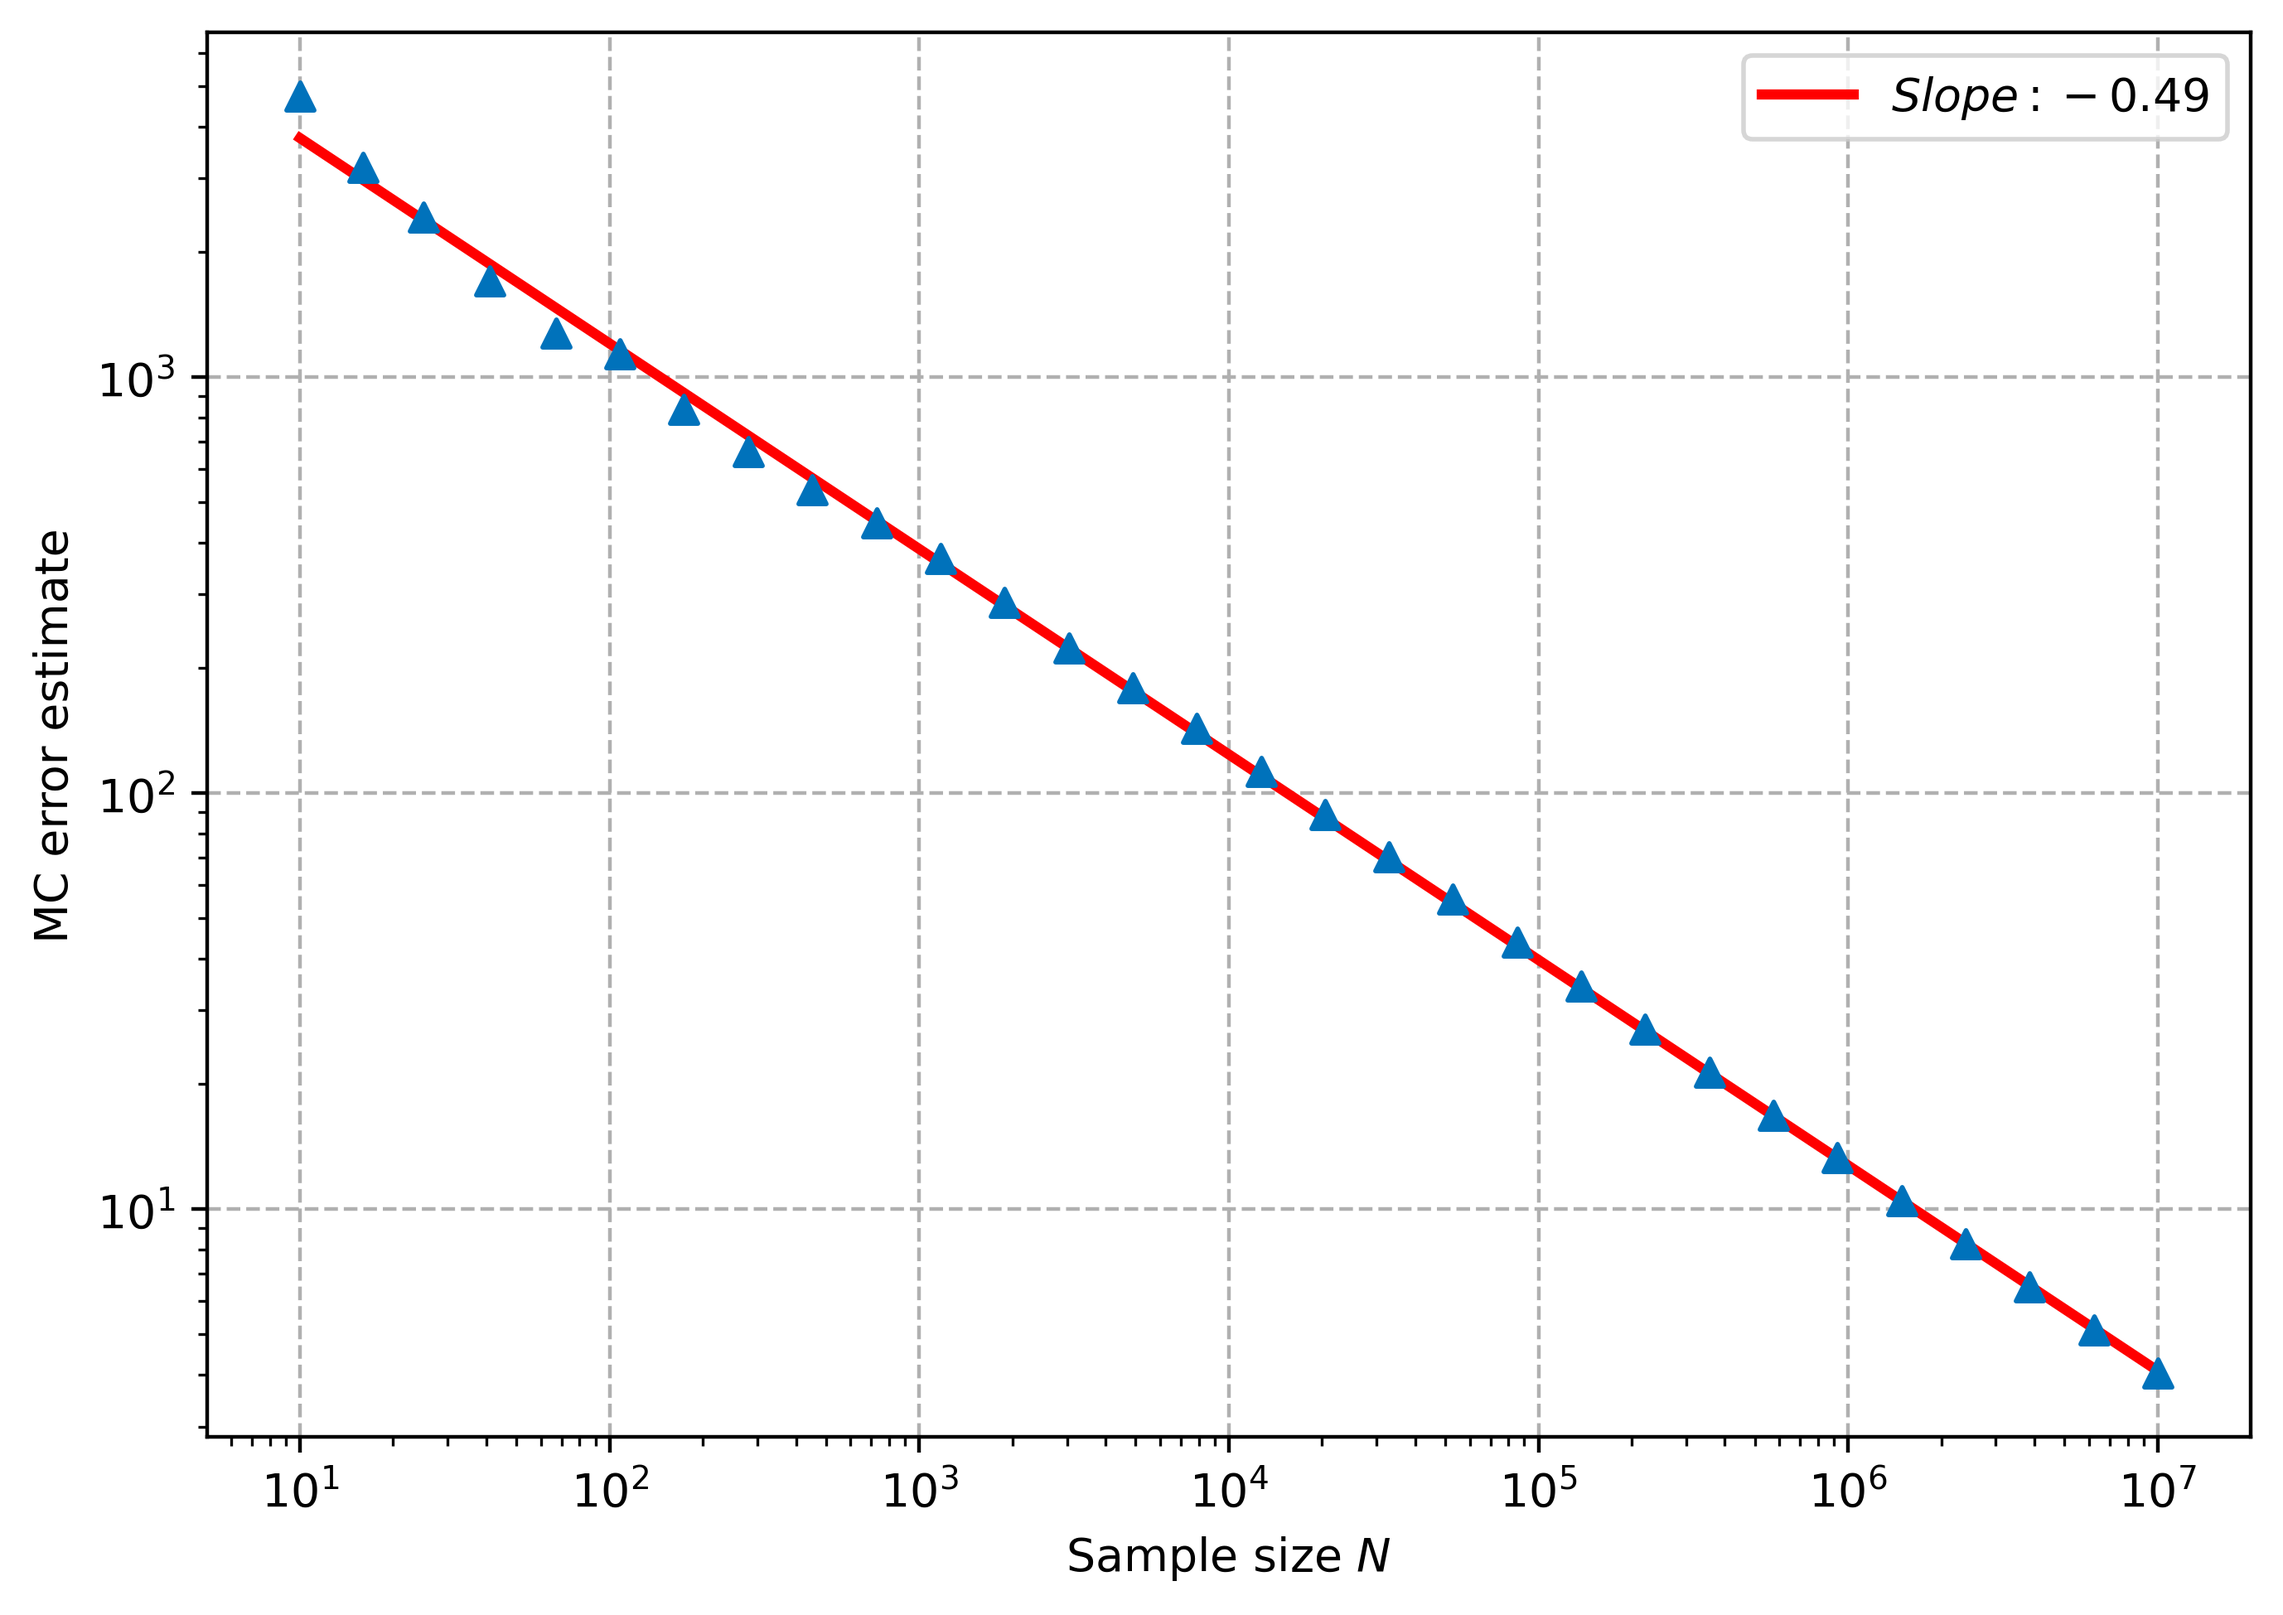
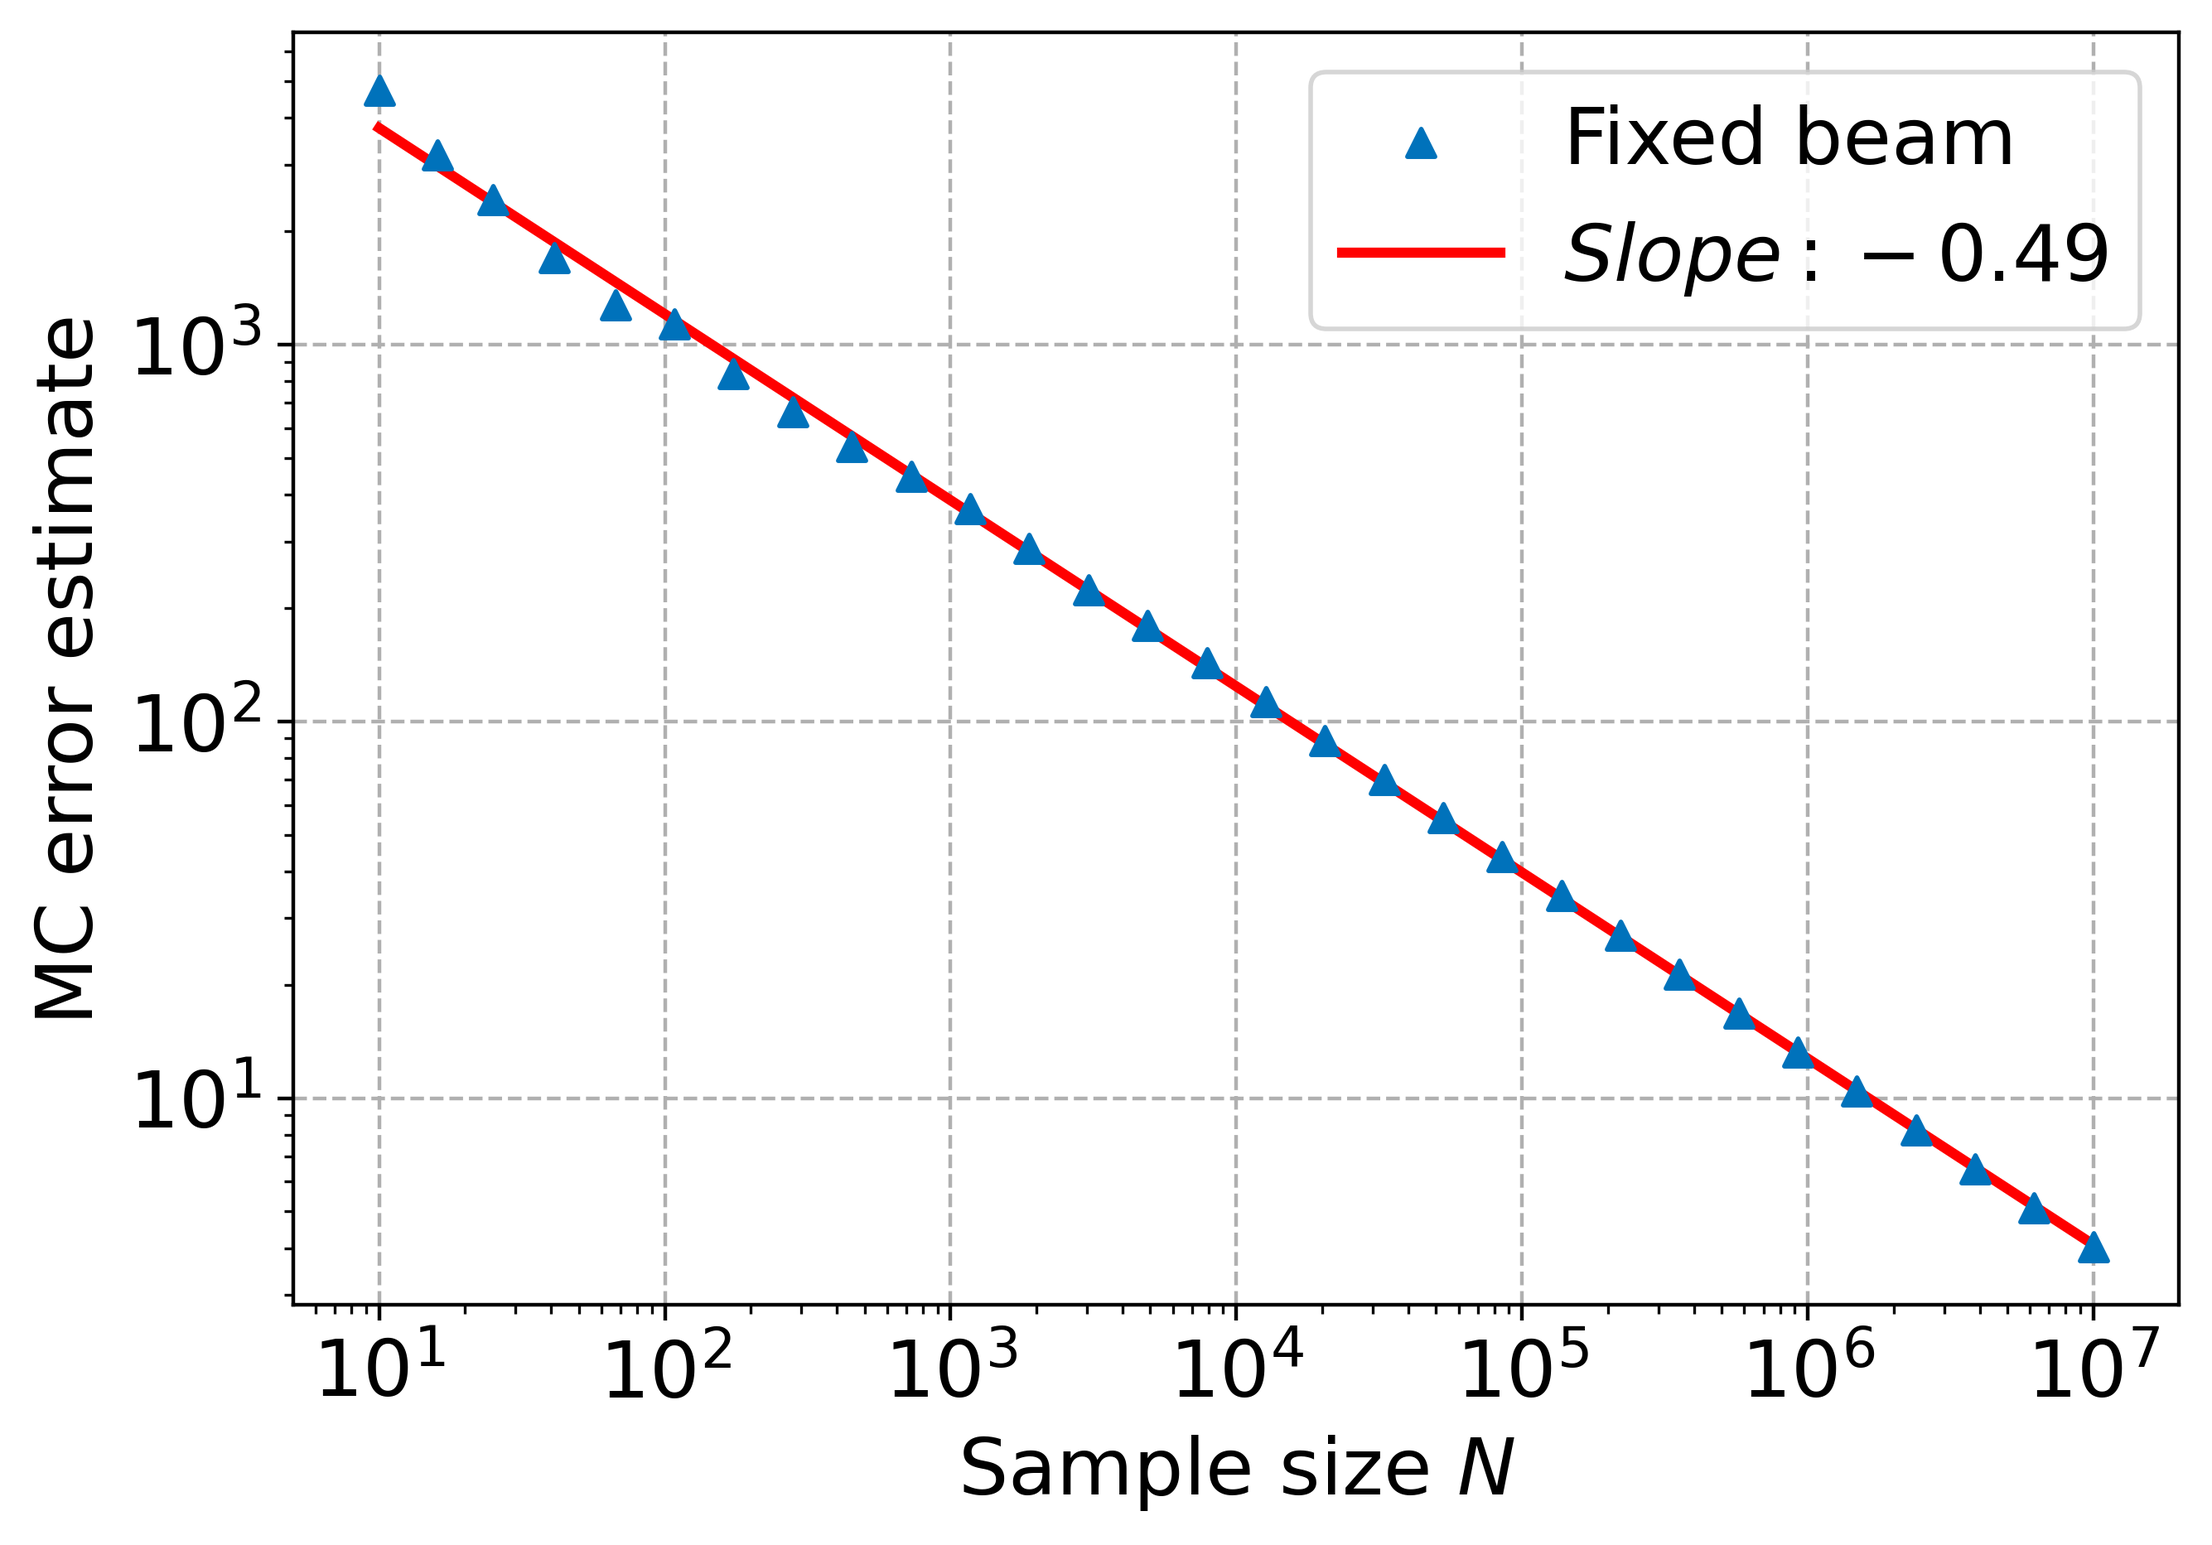
Finished exercise 1 part b and all mc errors plot.

diff --git a/exercise1/all_mc_errors.py b/exercise1/all_mc_errors.py
@@ -1,0 +1,87 @@
+"""
+Create a single plot of the Monte Carlo error estimate vs. sample size for three different scenarios:
+    1. fixed beam energy,
+    2. flat beam spectrum with uniform sampling for s, and
+    3. flat beam spectrum with Breit-Wigner importance sampling for s.
+
+The plot includes two lines representing the decrease of the MC error estimate with 1/sqrt(N).
+"""
+import matplotlib.pyplot as plt
+import numpy as np
+import pandas as pd
+
+from simulator import MonteCarloIntegrator, getDistros, plotMonteCarloErrors, setFontSizes
+
+
+def getMCErrors(sample_sizes: np.ndarray | list[int], integrators: list[MonteCarloIntegrator]):
+    """
+    Compute the Monte Carlo error estimate on the total cross-section, for different sample sizes N.
+
+    :param sample_sizes: List or numpy array of integers for the sample sizes.
+    :param integrators: List of Monte Carlo integrators.
+    :return: Ordered sample sizes and a list with the corresponding Monte Carlo errors for each integrator.
+    """
+
+    N_sizes = sorted(sample_sizes)  # Make sure it's in ascending order.
+
+    mc_errors = [np.zeros(len(N_sizes)) for _ in range(len(integrators))]
+
+    for (k, N) in enumerate(N_sizes):
+        for (idx, integrator) in enumerate(integrators):
+            integrator: MonteCarloIntegrator
+            integrator.sample_diff_cross_section(N)
+            mc_error = integrator.integrate_cross_section()[1]
+            mc_errors[idx][k] = mc_error
+
+    return N_sizes, mc_errors
+
+
+def main() -> None:
+    cases = ["Fixed", "Uniform", "Breit-Wigner"]
+
+    if load_data:
+        df = pd.read_csv(data_path)
+        N_sizes = list(df["sample_sizes"])
+        mc_errors = [list(df[key]) for key in cases]
+    else:
+        distros_b = getDistros("b")
+        distros_d = getDistros("d")
+        distros_g = getDistros("g")
+
+        integrator_b = MonteCarloIntegrator(s_distro=distros_b[0], beam_distro=distros_b[1], sum_quark_method="random")
+        integrator_d = MonteCarloIntegrator(s_distro=distros_d[0], beam_distro=distros_d[1], sum_quark_method="random")
+        integrator_g = MonteCarloIntegrator(s_distro=distros_g[0], beam_distro=distros_g[1], sum_quark_method="random")
+
+        N_sizes, mc_errors = getMCErrors(N_values, [integrator_b, integrator_d, integrator_g])
+
+        if save_data:
+            mc_error_data = {cases[k]: mc_errors[k] for k in range(len(cases))}
+            mc_error_data["sample_sizes"] = N_sizes
+            df = pd.DataFrame(mc_error_data)
+            df.to_csv(data_path, index=False)
+
+    setFontSizes(factor=font_size_div_factor, all_equal=save_figure)
+    plotMonteCarloErrors(N_sizes, mc_errors,
+                         labels=["Fixed", "Uniform", "Breit-Wigner"],
+                         make_lines=[False, True, True])
+    if save_figure:
+        plt.savefig(figure_path, dpi=dpi, bbox_inches='tight')
+        print(f"Figure saved to {figure_path}.")
+
+    plt.show()
+    return
+
+
+if __name__ == '__main__':
+
+    load_data = True  # If true, the plot is generated from existing data.
+    save_data = False  # If true, generated data for the plot is saved. Ignored if data is loaded.
+    data_path = "data/ex1_all_mc_errors.csv"  # Path to either load or save data.
+    # Get logarithmically-equally-spaced points for sample sizes. Log is base 10.
+    N_values = np.logspace(1, 7, num=30, dtype=int)
+
+    save_figure = False  # Save plot of Monte Carlo error estimate vs. sample size.
+    font_size_div_factor = 0.8  # Adjust font sizes for visibility in document.
+    dpi = 400
+    figure_path = "figures/ex1_all_mc_errors.png"
+    main()

diff --git a/exercise1/part_b.py b/exercise1/part_b.py
@@ -2,28 +2,9 @@ import numpy as np
 import matplotlib.pyplot as plt
 import pandas as pd
 
-from simulator import MonteCarloIntegrator, true_sigma_1a, getDistros, plotMonteCarloErrors
+from simulator import MonteCarloIntegrator, true_sigma_1a, getDistros, plotMonteCarloErrors, setFontSizes
 from all_cross_sections import compareQuarkSumMethods, showResults
-
-
-def getMCErrors(sample_sizes: np.ndarray | list[int]):
-    """
-    Compute the Monte Carlo error estimate on the total cross-section, for different sample sizes N.
-
-    :return:
-    """
-
-    N_sizes = sorted(sample_sizes)  # Make sure it's in ascending order.
-
-    mc_errors = np.array([])
-    integrator = MonteCarloIntegrator(sum_quark_method="random")
-
-    for N in N_sizes:
-        integrator.sample_diff_cross_section(N)
-        mc_error = integrator.integrate_cross_section()[1]
-        mc_errors = np.append(mc_errors, mc_error)
-
-    return N_sizes, mc_errors
+from all_mc_errors import getMCErrors
 
 
 def main() -> None:
@@ -38,19 +19,21 @@ def main() -> None:
     if load_data:
         df = pd.read_csv(data_path)
         sample_sizes = list(df["sample_sizes"])
-        mc_errors = list(df["mc_errors"])
+        mc_errors = [np.array(df["mc_errors"])]
     else:
-        sample_sizes, mc_errors = getMCErrors(N_values)
+        s_distro, beam_distro = getDistros("b")
+        integrator = MonteCarloIntegrator(s_distro=s_distro, beam_distro=beam_distro, sum_quark_method="random")
+        sample_sizes, mc_errors = getMCErrors(N_values, [integrator])
         if save_data:
-            df = pd.DataFrame({"sample_sizes": sample_sizes, "mc_errors": mc_errors})
+            df = pd.DataFrame({"sample_sizes": sample_sizes, "mc_errors": mc_errors[0]})
             df.to_csv(data_path, index=False)
 
     ###########################
     # MC error-estimate plot. #
     ###########################
-    # TODO: Plot sample sizes vs. mc_errors.
-    dpi = 400
-    _ = plotMonteCarloErrors(sample_sizes, [mc_errors])
+
+    setFontSizes(factor=font_size_div_factor, all_equal=save_figure)
+    _ = plotMonteCarloErrors(sample_sizes, mc_errors, make_lines=[True], labels=["Fixed beam"])
 
     if save_figure:
         plt.savefig(figure_path, dpi=dpi, bbox_inches='tight')
@@ -68,11 +51,13 @@ if __name__ == '__main__':
     # MC errors for different sample sizes. #
     #########################################
     load_data = True  # If true, the plot is generated from existing data.
-    save_data = True  # If true, generated data for the plot is saved.
+    save_data = False  # If true, generated data for the plot is saved. Ignored if data is loaded.
     data_path = "data/ex1_part_b.csv"  # Path to either load or save data.
     # Get logarithmically-equally-spaced points for sample sizes. Log is base 10.
     N_values = np.logspace(1, 7, num=30, dtype=int)
 
-    save_figure = True  # Save plot of Monte Carlo error estimate vs. sample size.
+    save_figure = False  # Save plot of Monte Carlo error estimate vs. sample size.
+    font_size_div_factor = 0.7  # Adjust font sizes for visibility in document.
+    dpi = 400
     figure_path = "figures/ex1_part_b.png"
     main()
